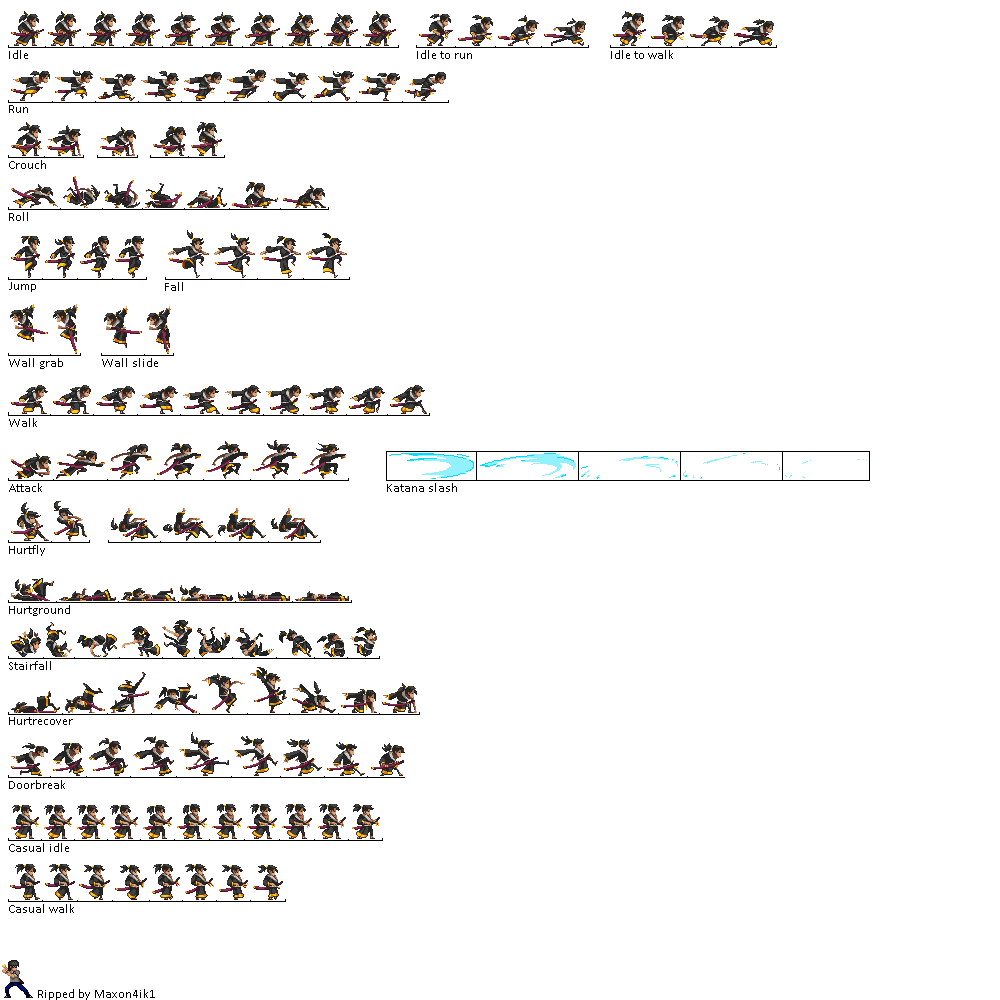
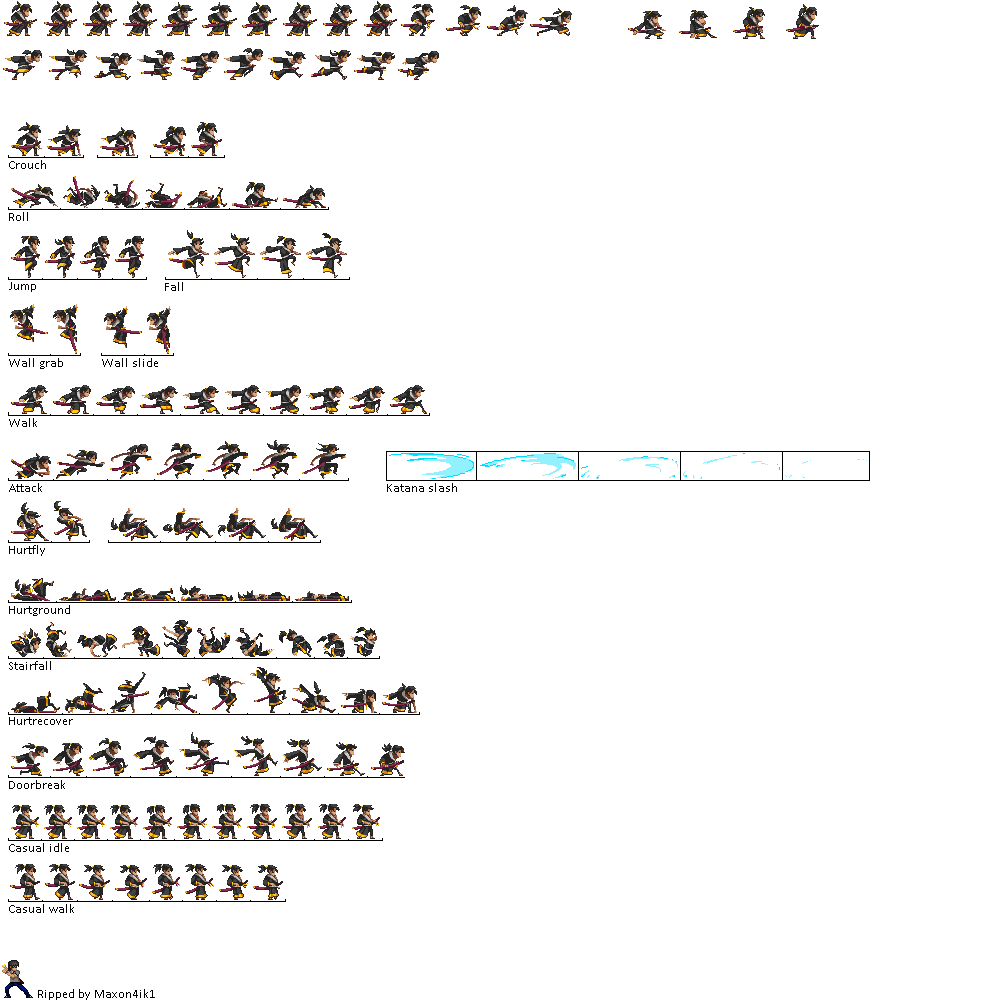
51
애니메이션 출력

Changed region(s): [[0.0, 0.0, 0.589, 0.124], [0.62, 0.0, 0.837, 0.062]]

diff --git a/Engine_SOURCE/Animation.cpp b/Engine_SOURCE/Animation.cpp
@@ -1,5 +1,7 @@
 #include "Animation.h"
 #include "TimeMgr.h"
+#include "Texture.h"
+#include "Renderer.h"
 
 namespace dru
 {
@@ -10,6 +12,7 @@ namespace dru
 		, mIndex(-1)
 		, mTime(0.f)
 		, mbComplete(false)
+		, mSpriteLength(0)
 	{
 
 	}
@@ -30,13 +33,26 @@ namespace dru
 		if (mSpriteSheet[mIndex].duration < mTime)
 		{
 			mTime = 0.f;
-			++mIndex;
-
-			if (mSpriteSheet.size() <= mIndex)
+			if (mbReversePlay)
 			{
-				mbComplete = true;
-				mIndex = mSpriteSheet.size() - 1;
+				--mIndex;
 
+				if (0 == mIndex)
+				{
+					mbComplete = true;
+					mIndex = mSpriteLength;
+				}
+			}
+			else
+			{
+				++mIndex;
+
+				if (mSpriteSheet.size() <= mIndex)
+				{
+					mbComplete = true;
+					mIndex = mSpriteSheet.size() - 1;
+
+				}
 			}
 		}
 	}
@@ -49,13 +65,49 @@ namespace dru
 	{
 	}
 
-	void CAnimation::Create(const std::wstring& _name, std::shared_ptr<CTexture> _atlas, Vector2 _leftTop, Vector2 _size, Vector2 _offset, UINT _columnLength, UINT _spriteLength, float _duration)
+	void CAnimation::Create(const std::wstring& _name, std::shared_ptr<CTexture> _atlas, Vector2 _leftTop, Vector2 _size, Vector2 _offset, UINT _spriteLength, float _duration, bool _Reverse)
 	{
-		mName = _name;
+		mAnimationName = _name;
+		mAtlas = _atlas;
+		mbReversePlay = _Reverse;
+		mSpriteLength = _spriteLength;
+
+		float height = (float)_atlas->GetHeight();
+		float width = (float)_atlas->GetWidth();
+
+		for (size_t i = 0; i < _spriteLength; i++)
+		{
+			Sprite sprite = {};
+			sprite.LT = Vector2(
+				(_leftTop.x + (_size.x * (float)i)) / width, 
+				_leftTop.y / height
+			);
+			sprite.size = Vector2(_size.x / width, _size.y / height);
+			sprite.offset = _offset;
+			sprite.duration = _duration;
+			sprite.altasSize = Vector2(35.f / width, 35.f / height);
+
+			mSpriteSheet.push_back(sprite);
+		}
 	}
 
 	void CAnimation::BindShader()
 	{
+		mAtlas->BindShader(eShaderStage::PS, 12);
+
+		CConstantBuffer* cb =  renderer::constantBuffers[(UINT)eCBType::Animation];
+
+		renderer::AnimationCB data = {};
+
+		data.type = (UINT)eAnimationType::SecondDimension;
+		data.LT = mSpriteSheet[mIndex].LT;
+		data.offset = mSpriteSheet[mIndex].offset;
+		data.size = mSpriteSheet[mIndex].size;
+		data.atlasSize = mSpriteSheet[mIndex].altasSize;
+
+		cb->Bind(&data);
+		cb->SetPipeline(eShaderStage::PS);
+
 	}
 
 	void CAnimation::Clear()
@@ -65,7 +117,12 @@ namespace dru
 	void CAnimation::Reset()
 	{
 		mTime = 0.f;
-		mIndex = 0;
+
+		if(mbReversePlay)
+			mIndex = mSpriteLength;
+		else
+			mIndex = 0;
+
 		mbComplete = false;
 	}
 

diff --git a/Engine_SOURCE/Animator.cpp b/Engine_SOURCE/Animator.cpp
@@ -26,7 +26,7 @@ namespace dru
 
 	}
 
-	void CAnimator::Initalize()
+	void CAnimator::Initialize()
 	{
 	}
 
@@ -35,14 +35,15 @@ namespace dru
 		if (!mCurrentAnimation)
 			return;
 
-		if (mCurrentAnimation->IsCompleted() && mbLoop)
+		if (mCurrentAnimation->IsCompleted())
 		{
 			Events* events = FindEvents(mCurrentAnimation->GetAnimationName());
 
 			if (events)
 				events->mCompleteEvent();
 
-			mCurrentAnimation->Reset();
+			if(mbLoop)
+				mCurrentAnimation->Reset();
 		}
 		mCurrentAnimation->update();
 	}
@@ -55,20 +56,21 @@ namespace dru
 	{
 	}
 
-	bool CAnimator::Create(const std::wstring& _name, std::shared_ptr<CTexture> _atlas, Vector2 _leftTop, Vector2 _size, Vector2 _offset, UINT _columnLength, UINT _spriteLength, float _duration)
+	bool CAnimator::Create(const std::wstring& _name, std::shared_ptr<CTexture> _atlas, Vector2 _leftTop, Vector2 _size, Vector2 _offset, UINT _spriteLength, float _duration, bool _Reverse)
 	{
 		if (!_atlas)
 			return false;
 
 		CAnimation* animation = FindAnimation(_name);
-
 		if (animation)
 			return false;
 
 		animation = new CAnimation();
-		animation->Create(_name, _atlas, _leftTop, _size, _offset, _columnLength, _spriteLength, _duration);
+		animation->Create(_name, _atlas, _leftTop, _size, _offset, _spriteLength, _duration, _Reverse);
 
 		mAnimations.insert(std::make_pair(_name, animation));
+
+		return true;
 	}
 
 	CAnimation* CAnimator::FindAnimation(const std::wstring& _name)
@@ -95,7 +97,7 @@ namespace dru
 		return iter->second;
 	}
 
-	void CAnimator::Play(std::wstring& _name, bool _bLoop)
+	void CAnimator::Play(std::wstring _name, bool _bLoop)
 	{
 		CAnimation* prevAnimation = mCurrentAnimation;
 

diff --git a/Engine_SOURCE/Player.cpp b/Engine_SOURCE/Player.cpp
@@ -1,6 +1,7 @@
 #include "Player.h"
 #include "PlayerScript.h"
 #include "RigidBody.h"
+#include "Animator.h"
 
 namespace dru
 {
@@ -21,6 +22,14 @@ namespace dru
 		std::shared_ptr<CMaterial> Material = std::make_shared<CMaterial>(L"player", L"SpriteShader");
 		CResources::Insert<CMaterial>(L"PlayerMat", Material);
 		SpriteRenderer->SetMaterial(Material);
+
+		CAnimator* animator = playerObj->AddComponent<CAnimator>(eComponentType::Animator);
+		animator->Create(L"Player_Idle", Material->GetTexture(), { 0.f, 0.f }, { 40.f, 40.f }, Vector2::Zero, 10, 0.1f);
+		animator->Create(L"Player_Run", Material->GetTexture(), { 10.f, 11.f }, { 36.f, 35.f }, Vector2::Zero, 10, 0.1f);
+		animator->Create(L"Player_IdleToRun", Material->GetTexture(), { 396.f, 0.f }, { 44.f, 36.f }, Vector2::Zero, 4, 0.1f);
+		animator->Create(L"Player_RunToIdle", Material->GetTexture(), { 622.f, 0.f }, { 52.f, 39.f }, Vector2::Zero, 4, 0.1f);
+		animator->Play(L"Player_Idle");
+
 	}
 
 	CPlayer::~CPlayer()

diff --git a/Engine_SOURCE/Renderer.cpp b/Engine_SOURCE/Renderer.cpp
@@ -395,7 +395,7 @@ namespace dru::renderer
 		CResources::Load<CTexture>(L"TitleO_1", L"TitleScene/bgTitleO_1.png");
 		CResources::Load<CTexture>(L"Fence", L"TitleScene/bgFence.png");
 		CResources::Load<CTexture>(L"Grass", L"TitleScene/bgGrass.png");
-
+		CResources::Load<CTexture>(L"Grass2", L"TitleScene/bgGrass2.png");
 
 		// main
 		CResources::Load<CTexture>(L"texCursor", L"MainScene/Cursor.png");
@@ -403,7 +403,8 @@ namespace dru::renderer
 		CResources::Load<CTexture>(L"mask", L"MainScene/Background/transition_mask.png");
 
 
-		CResources::Load<CTexture>(L"player", L"MainScene/Player2.png");
+		CResources::Load<CTexture>(L"player", L"MainScene/Player.png");
+		//CResources::Load<CTexture>(L"player", L"MainScene/Player2.png");
 
 		CResources::Load<CTexture>(L"hud_top", L"MainScene/Hud/hud_top.png");
 		CResources::Load<CTexture>(L"hud_timer", L"MainScene/Hud/hud_timer.png");

diff --git a/Engine_SOURCE/Animator.h b/Engine_SOURCE/Animator.h
@@ -30,19 +30,19 @@ namespace dru
 		};
 
 		CAnimator();
-		~CAnimator();
+		virtual ~CAnimator();
 
-		virtual void Initalize();
+		virtual void Initialize();
 		virtual void update();
 		virtual void fixedUpdate();
 		virtual void render();
 
-		bool Create(const std::wstring& _name, std::shared_ptr<CTexture> _atlas, Vector2 _leftTop, Vector2 _size, Vector2 _offset, UINT _columnLength, UINT _spriteLength, float _duration);
+		bool Create(const std::wstring& _name, std::shared_ptr<CTexture> _atlas, Vector2 _leftTop, Vector2 _size, Vector2 _offset,  UINT _spriteLength, float _duration, bool _Reverse = false);
 		
 		CAnimation* FindAnimation(const std::wstring& _name);
 		Events* FindEvents(const std::wstring& _name);
 
-		void Play(std::wstring& _name, bool _bLoop = true);
+		void Play(std::wstring _name, bool _bLoop = true);
 
 		void Binds();
 		void Clear();

diff --git a/Engine_SOURCE/SpriteRenderer.cpp b/Engine_SOURCE/SpriteRenderer.cpp
@@ -1,6 +1,7 @@
 #include "SpriteRenderer.h"
 #include "GameObj.h"
 #include "Transform.h"
+#include "Animator.h"
 
 namespace dru
 {
@@ -35,6 +36,14 @@ namespace dru
 		GetMaterial()->Bind();
 
 		GetMesh()->BindBuffer();
+
+		CAnimator* animator = GetOwner()->GetComponent<CAnimator>();
+
+		if (animator)
+		{
+			animator->Binds();
+		}
+
 		GetMesh()->Render();
 
 		GetMaterial()->Clear();

diff --git a/Engine_SOURCE/Texture.h b/Engine_SOURCE/Texture.h
@@ -26,6 +26,9 @@ namespace dru::graphics
 
 		ScratchImage& GetScratchImage() { return mImage; }
 
+		size_t GetHeight() { return mImage.GetMetadata().height; }
+		size_t GetWidth() { return mImage.GetMetadata().width; }
+
 
 	private:
 		ScratchImage									mImage;

diff --git a/Engine_SOURCE/CollisionMgr.cpp b/Engine_SOURCE/CollisionMgr.cpp
@@ -82,6 +82,11 @@ namespace dru
 				if (left == right)
 					continue;
 
+				//if (_left == _right)
+				//{
+				//	if()
+				//}
+
 				ColliderCollision(left->GetComponent<CCollider2D>(), right->GetComponent<CCollider2D>());
 
 			}

diff --git a/Engine_SOURCE/SceneMain.cpp b/Engine_SOURCE/SceneMain.cpp
@@ -75,8 +75,7 @@ namespace dru
 			mStageBackground->SetScale(Vector3(8.f, 8.f, 1.f));
 		}
 
-
-		
+	
 		{
 			mPlayer = object::Instantiate<CPlayer>(eLayerType::Player, L"Player");
 			mPlayer->SetPos(Vector3(-6.f, -2.65f, 3.f));

diff --git a/Engine_SOURCE/Renderer.h b/Engine_SOURCE/Renderer.h
@@ -63,9 +63,9 @@ namespace dru::renderer
 		Vector2 LT;
 		Vector2 size;
 		Vector2 offset;
-		Vector2 atlasSIze;
+		Vector2 atlasSize;
 
-		UINT used;
+		UINT type;
 	};
 
 	// vertex data
